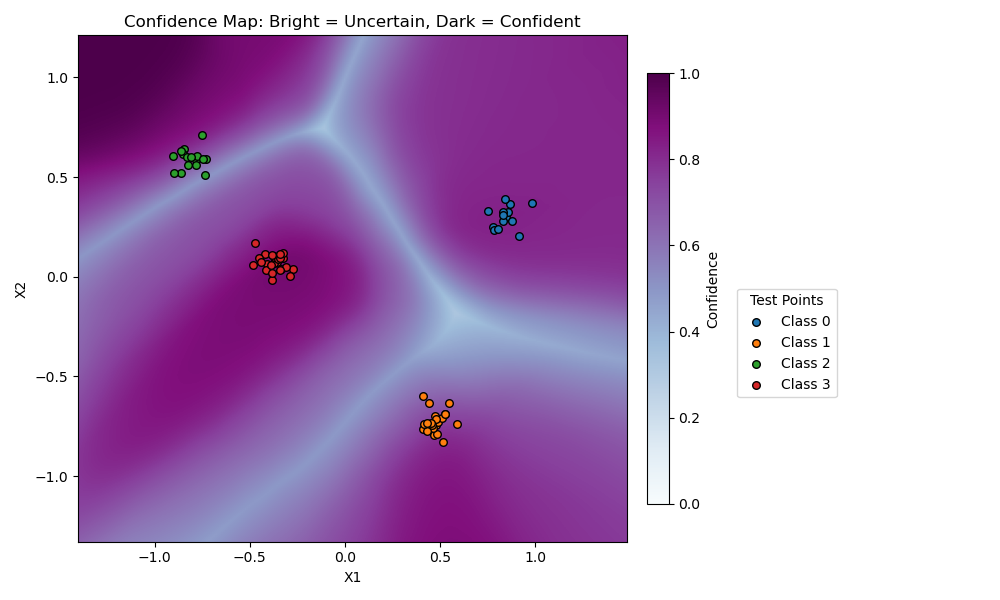
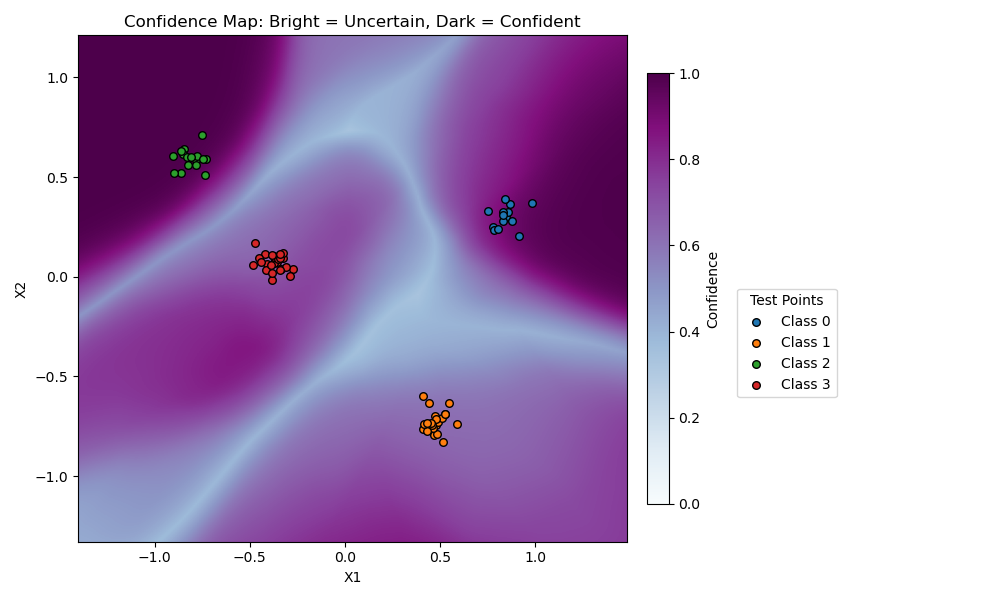
matrix free version of q_loss alternating proj

Changed region(s): [[0.062, 0.06, 0.651, 0.93], [0.589, 0.63, 0.651, 0.72], [0.062, 0.57, 0.093, 0.63]]

diff --git a/utils.py b/utils.py
@@ -5,6 +5,9 @@ from torch.utils.data import DataLoader
 from metrics import (
     compute_accuracy, compute_brier_score, compute_classification_ece_mce, compute_classification_nll, compute_confidence, compute_coverage, compute_multiclass_auroc, compute_predictive_entropy, compute_regression_ece, compute_regression_nll, compute_rmse, compute_sharpness
 )
+from torch.autograd.functional import jvp, vjp
+from torch.nn.utils import parameters_to_vector, vector_to_parameters
+from torch.func import functional_call
 
 def compute_model_jacobian_params(model, x_train):
     """
@@ -171,8 +174,6 @@ def compute_loss_jacobian_params_classifier(model, x_train, y_train, criterion=N
 
     return J_L_theta
 
-
-
 def sample_from_posterior(theta_map, covariance, num_samples=10, scale=0.1):
     """
     Samples parameters from the posterior using SVD for stability
@@ -199,6 +200,7 @@ def sample_from_posterior(theta_map, covariance, num_samples=10, scale=0.1):
 
     return samples
 
+# This is not used anymore -> use the matrix-free version instead
 def project_delta_into_nullspace(delta, M, damping=1e-4):
     try:
         MMt = M @ M.T
@@ -209,6 +211,7 @@ def project_delta_into_nullspace(delta, M, damping=1e-4):
         print(f"⚠ Projection failed: {e}")
         return delta
 
+# This is not used anymore -> use the matrix-free version instead
 def alternating_projections_qproj_classifier(
     model, x_train, alpha=10.0, num_samples=100, num_iters=20, batch_size=32
 ):
@@ -283,20 +286,90 @@ def alternating_projections_qproj_classifier(
     print("\n🎉 All posterior samples generated.")
     return samples
 
+def vector_to_named_parameters(vec, model):
+    param_dict = {}
+    pointer = 0
+    for name, param in model.named_parameters():
+        num_params = param.numel()
+        param_dict[name] = vec[pointer:pointer + num_params].view_as(param)
+        pointer += num_params
+    return param_dict
+
+def compute_loss_kernel_vp(loss_fn, model_fn, x, y, params, w):
+    def loss_vector(params_vec):
+        out = model_fn(params_vec, x)
+        return loss_fn(out, y, reduction='none')  # shape: (B,)
+
+    # VJP: Jᵗ w
+    _, Jt_w, = vjp(loss_vector, (params,), v=w)
+
+    # JVP: J(Jᵗ w)
+    _, JJt_w = jvp(loss_vector, (params,), Jt_w)
+    return JJt_w
+
+@torch.no_grad()
+def precompute_loss_ggn_inverse(model_fn, loss_fn, xb, yb, params, damping=1e-3):
+    B = xb.shape[0]
+
+    def kvp(w):  # Function: w ↦ JJᵗ w
+        return compute_loss_kernel_vp(loss_fn, model_fn, xb, yb, params, w)
+
+    I = torch.eye(B, device=xb.device)
+    JJt_rows = [kvp(I[i]) for i in range(B)]
+    JJt = torch.stack(JJt_rows, dim=0).detach()
+
+    JJt += damping * torch.eye(B, device=xb.device)
+
+    eigvals, eigvecs = torch.linalg.eigh(JJt)
+    threshold = 1e-3
+    inv_eigvals = 1.0 / eigvals
+    inv_eigvals[eigvals < threshold] = 0.0
+
+    return eigvecs, inv_eigvals
+
+def project_delta_matrix_free(
+    model_fn,
+    xb,
+    yb,
+    delta,
+    eigvecs,
+    inv_eigvals,
+    loss_fn,
+    theta
+):
+    def batch_loss(params_vec):
+        out = model_fn(params_vec, xb)
+        return loss_fn(out, yb, reduction='none')  # (B,)
+
+    # JVP: J · delta
+    _, Jv = jvp(batch_loss, (theta,), (delta,))  # (B,)
+
+    assert Jv.shape == (xb.shape[0],), f"Expected Jv shape ({xb.shape[0]},), got {Jv.shape}"
+
+    # Low-rank solve: V Λ⁻¹ Vᵗ Jv
+    JJt_inv_Jv = eigvecs.T @ Jv            # (r,)
+    JJt_inv_Jv = eigvecs @ (JJt_inv_Jv * inv_eigvals)  # (B,)
+
+    # VJP: Jᵗ · v
+    _, Jt_JJt_inv_Jv = vjp(batch_loss, theta, JJt_inv_Jv)
+
+    return delta - Jt_JJt_inv_Jv
+
 def alternating_projections_qloss_classifier(
-    model, dataset, alpha=10.0, num_samples=100, num_iters=20, batch_size=32
+    model, dataset, alpha=10.0, num_samples=100, max_iters=50, rel_tol=1e-3, batch_size=32
 ):
     """
     Samples from the projected posterior using alternating projections (q_loss),
     using a dataset object with (x, y) pairs.
     
     Args:
-        model: Trained classifier model.
-        dataset: A Dataset object (e.g., TensorDataset) returning (x, y) pairs.
-        alpha: Prior precision.
-        num_samples: Number of posterior samples to draw.
-        num_iters: Projection iterations per sample.
-        batch_size: Batch size for null-space projections.
+        model: Trained classifier (e.g., FC_2D_Net).
+        dataset: Dataset object containing (x, y) pairs.
+        alpha: Prior precision (controls posterior spread).
+        num_samples: Number of posterior samples.
+        max_iters: Maximum number of iterations for convergence.
+        rel_tol: Relative tolerance for convergence.
+        batch_size: Minibatch size for local projections.
     
     Returns:
         List of sampled weight vectors (posterior samples).
@@ -307,29 +380,49 @@ def alternating_projections_qloss_classifier(
     P = sum(p.numel() for p in model.parameters())
     theta_map = torch.nn.utils.parameters_to_vector(model.parameters()).detach()
     
-    loader = DataLoader(dataset, batch_size=batch_size, shuffle=True)
+    loader = DataLoader(dataset, batch_size=batch_size, shuffle=False)
     samples = []
+    loss_fn = torch.nn.functional.cross_entropy
+
+    def model_fn(params_vec, x_batch):
+        param_dict = vector_to_named_parameters(params_vec, model)
+        return functional_call(model, param_dict, (x_batch,))
+
+    # Precompute GGN eigenvectors (matrix-free)
+    precomputed_eigens = []
+    for xb, yb in loader:
+        xb, yb = xb.to(device), yb.to(device)
+        eigvecs, inv_eigvals = precompute_loss_ggn_inverse(
+            model_fn=model_fn, loss_fn=loss_fn, xb=xb, yb=yb, params=theta_map
+        )
+        precomputed_eigens.append((xb, yb, eigvecs, inv_eigvals))
 
     for sample_idx in range(num_samples):
         print(f"\n📦 Sampling (q_loss) {sample_idx + 1}/{num_samples}")
         delta = torch.randn(P, device=device) / torch.sqrt(torch.tensor(alpha))
 
-        for iter_idx in range(num_iters):
-            print(f"  🔁 Iter {iter_idx + 1}/{num_iters} | norm: {delta.norm().item():.4f}")
-
-            for batch_idx, (xb, yb) in enumerate(loader):
+        for iter_idx in range(max_iters):
+            delta_old = delta.clone()
+            for xb, yb, eigvecs, inv_eigvals in precomputed_eigens:
                 xb, yb = xb.to(device), yb.to(device)
+                
+                delta = project_delta_matrix_free(
+                    model_fn=model_fn,
+                    xb=xb,
+                    yb=yb,
+                    delta=delta,
+                    eigvecs=eigvecs,
+                    inv_eigvals=inv_eigvals,
+                    loss_fn=loss_fn,
+                    theta=theta_map
+                )
 
-                try:
-                    Mb = compute_loss_jacobian_params_classifier(model, xb, yb)
-                except Exception as e:
-                    print(f"    ⚠ Skipping batch {batch_idx} due to Jacobian error: {e}")
-                    continue
+            diff = (delta - delta_old).norm()
+            print(f"  🔁 Iter {iter_idx + 1} | Δdelta norm: {diff:.6f} | delta norm: {delta.norm():.4f}")
 
-                delta = project_delta_into_nullspace(delta, Mb)
-
-                if batch_idx % 5 == 0:
-                    print(f"    ✅ Batch {batch_idx}: norm {delta.norm().item():.4f}")
+            if diff < rel_tol:
+                print(f"  ✅ Converged at iteration {iter_idx + 1}")
+                break
 
         samples.append(theta_map + delta.detach().clone())
         print(f"✅ Done (q_loss) {sample_idx + 1}, norm: {delta.norm().item():.4f}")

diff --git a/alternating_projections_inference.py b/alternating_projections_inference.py
@@ -56,8 +56,8 @@ def loss_posterior_inference_2D_classifier_alt(model, train_dataset, test_datase
     original_params = torch.nn.utils.parameters_to_vector(model.parameters()).clone()
 
     for i in range(len(theta_samples)):
-        if i % 10 == 0:
-            print(f"Sample {i} Difference from MAP: {torch.norm(theta_samples[i] - theta_map).item()}")
+        #if i % 10 == 0:
+        print(f"Sample {i} Difference from MAP: {torch.norm(theta_samples[i] - theta_map).item()}")
     
     x_test = test_dataset[:][0]
     y_test_true = test_dataset[:][1]
